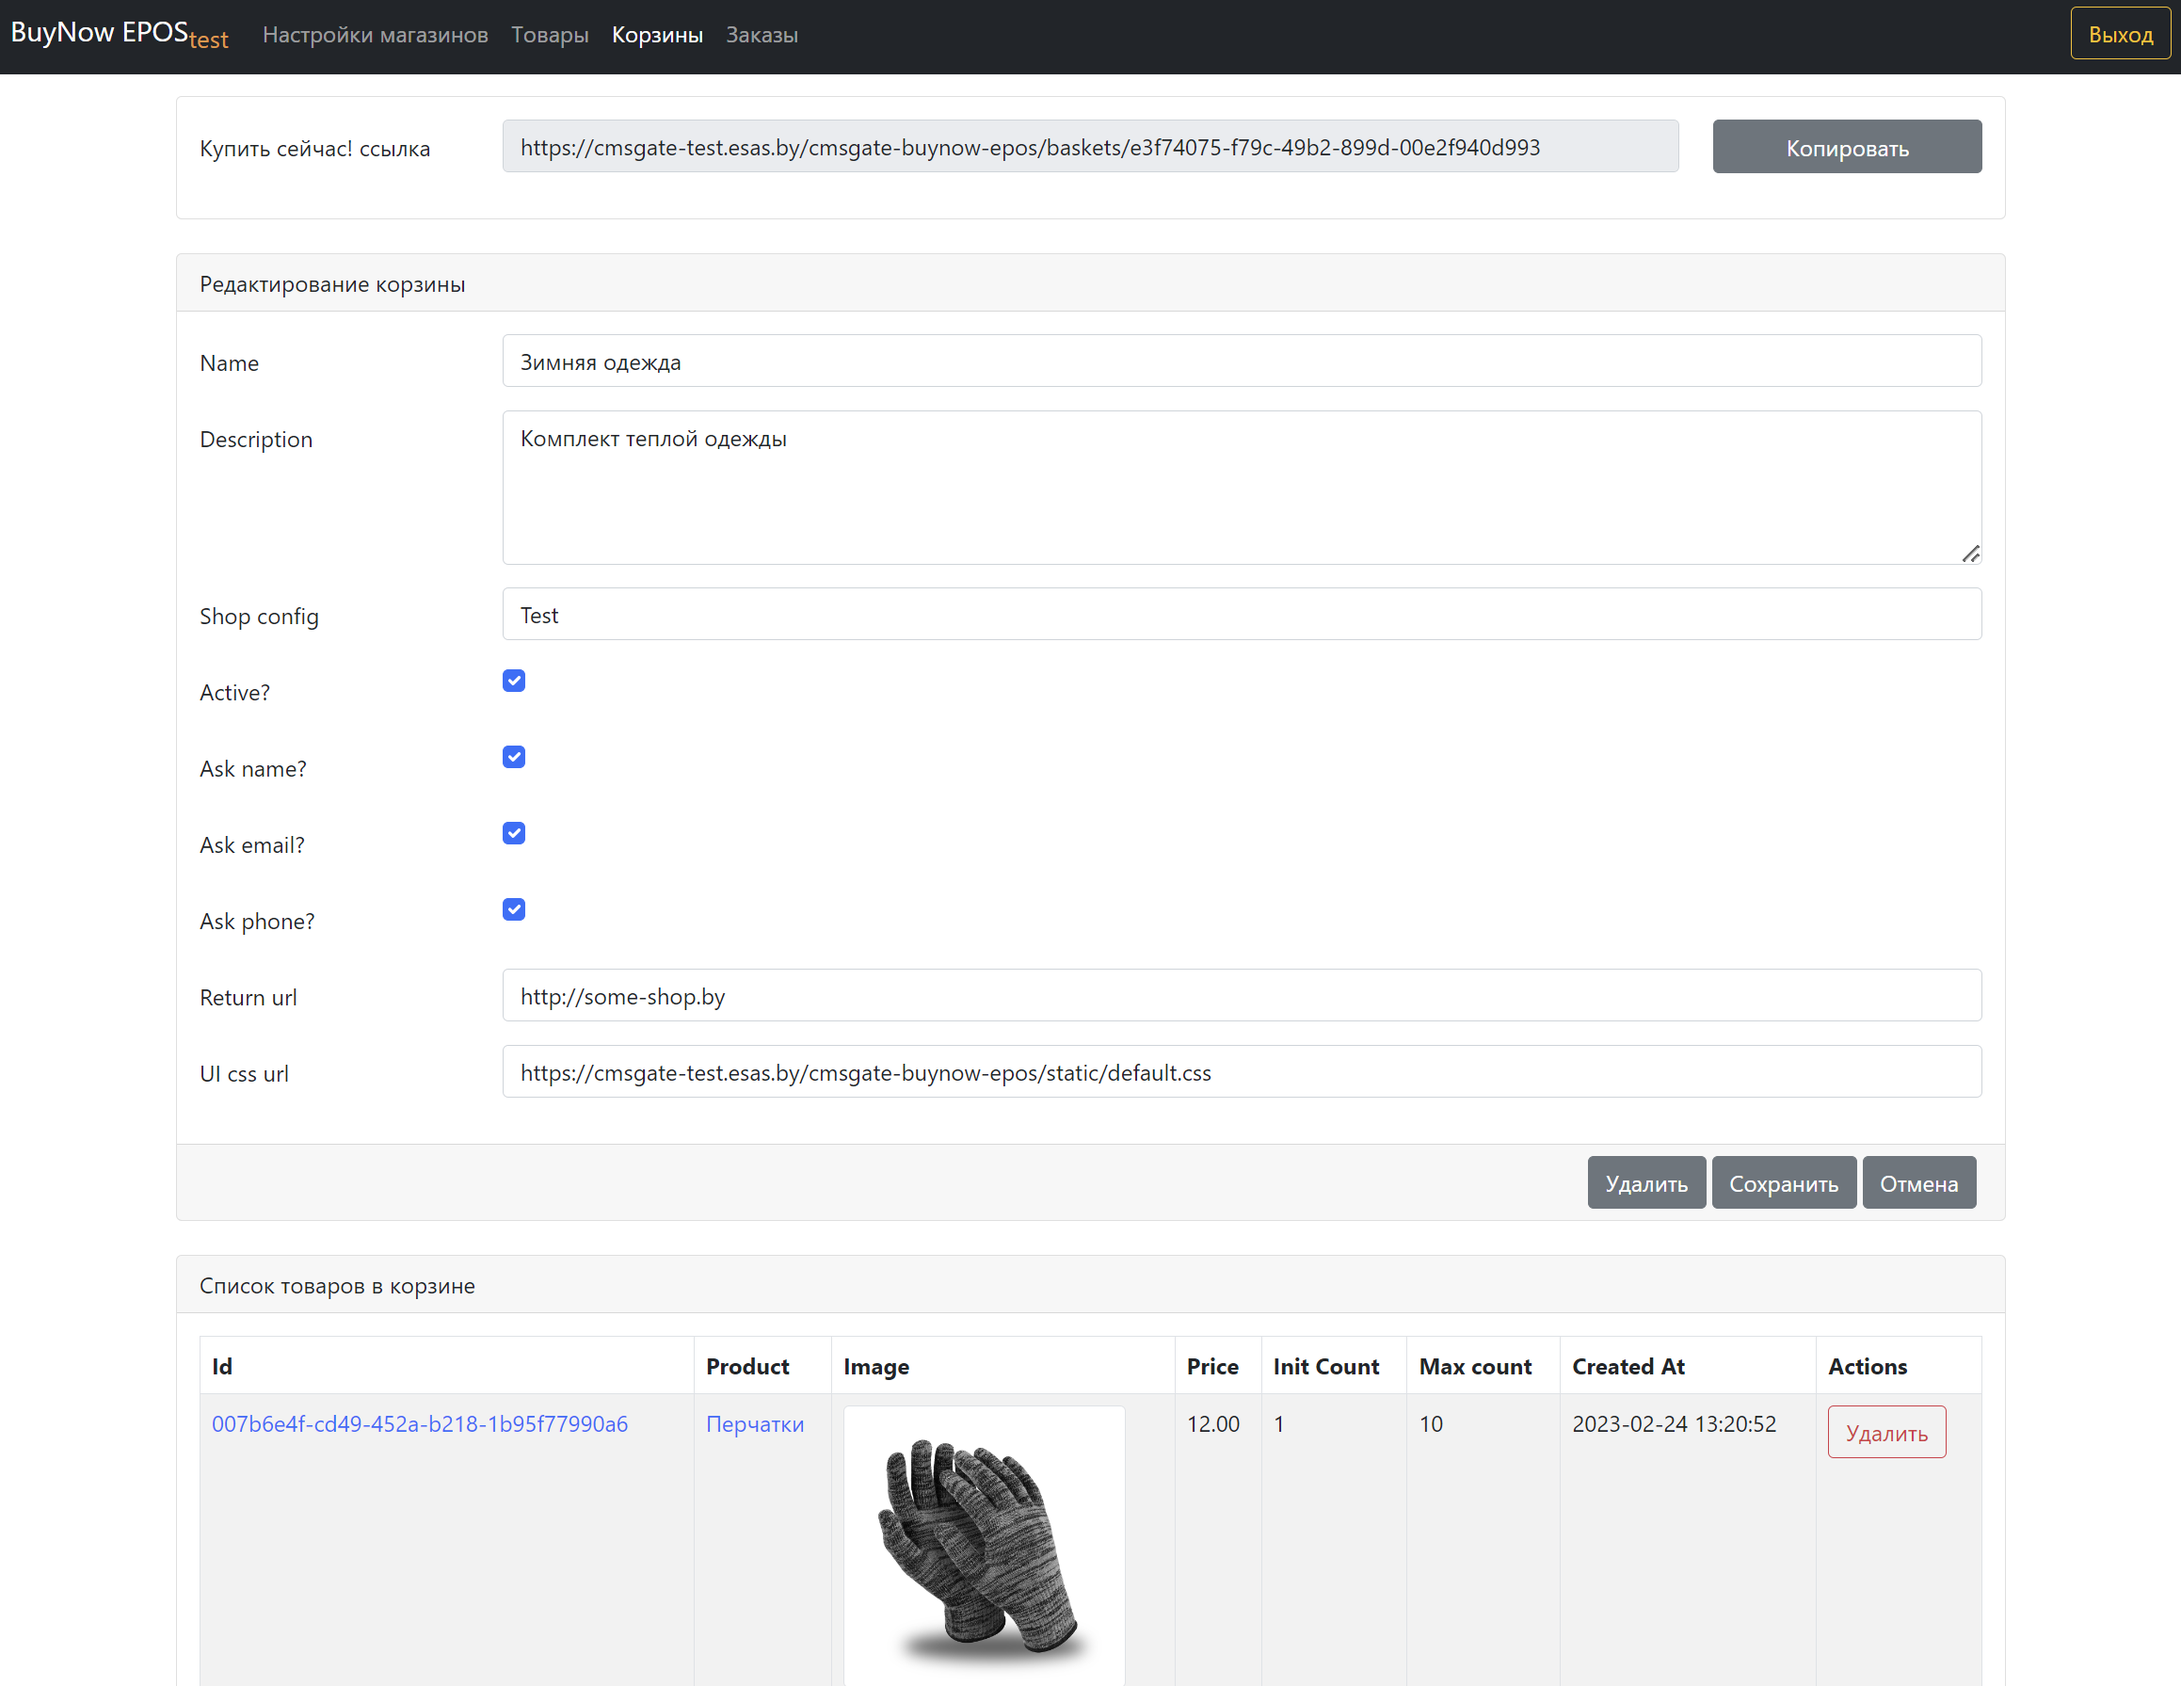
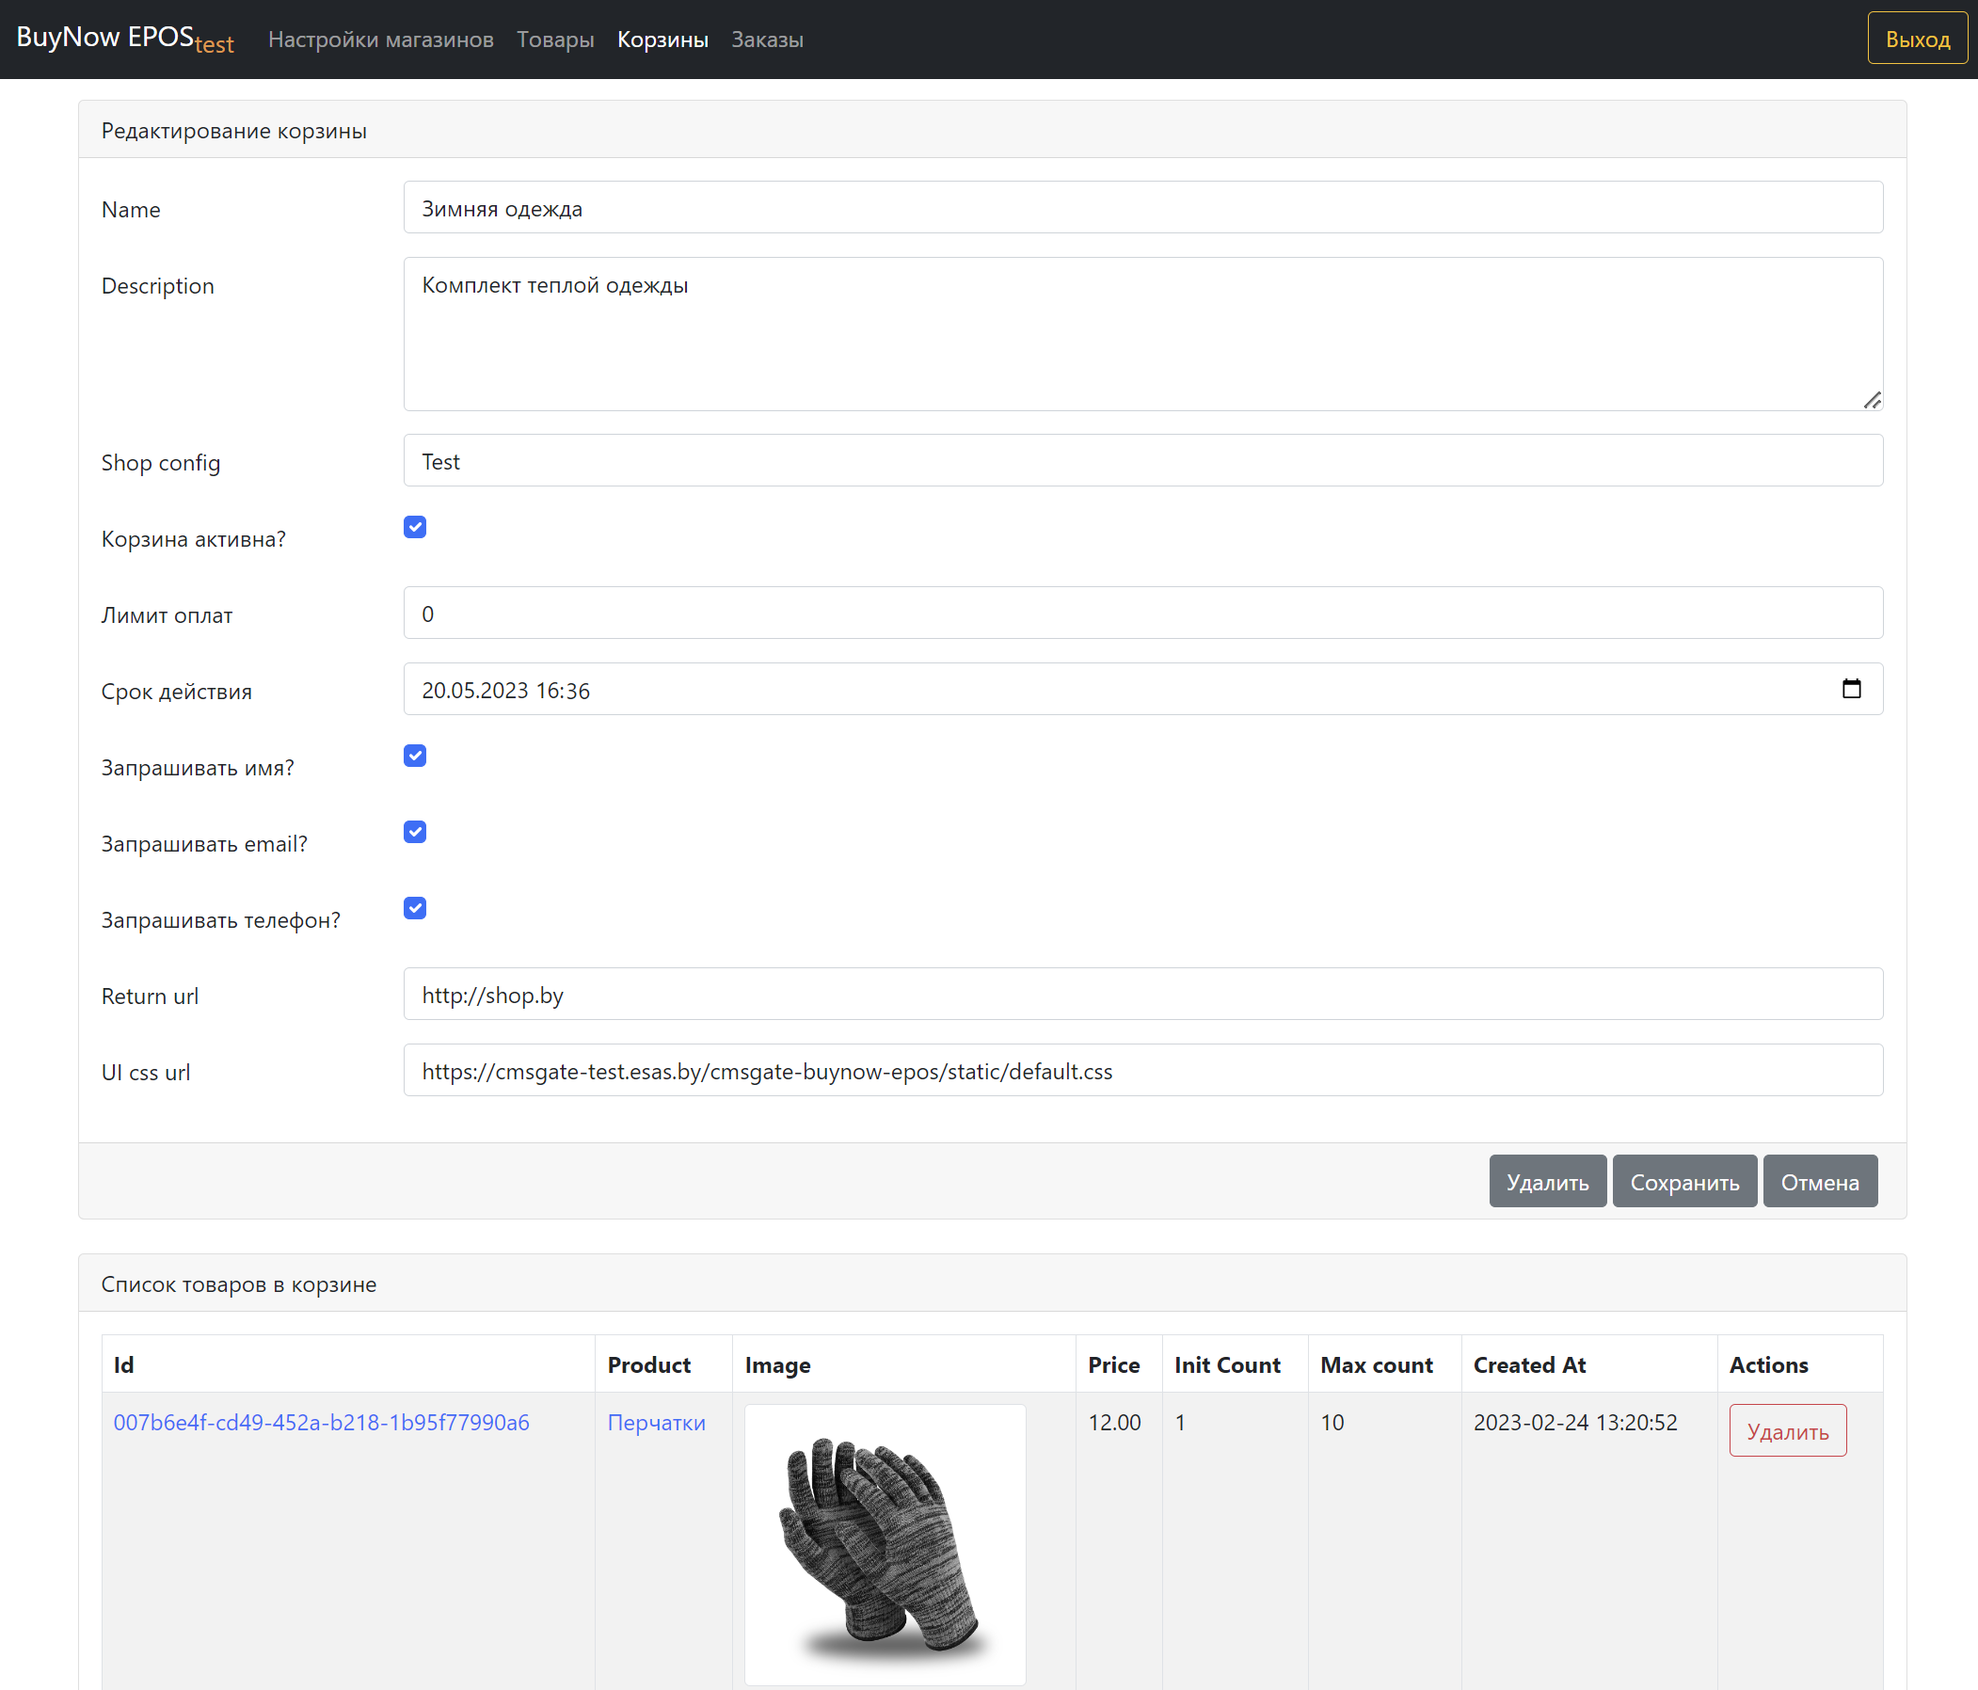
CMSGATE-56: new Service architecture. BridgeConnector was deleted. OrderCache renaming. Basket limiting

diff --git a/src/cmsgate-buynow-epos/src/esas/cmsgate/buynow/RegistryEposBuyNow.php b/src/cmsgate-buynow-epos/src/esas/cmsgate/buynow/RegistryEposBuyNow.php
@@ -8,8 +8,11 @@
 
 namespace esas\cmsgate\buynow;
 
-use esas\cmsgate\bridge\BridgeConnector;
+use esas\cmsgate\bridge\service\OrderService;
 use esas\cmsgate\buynow\hro\AdminLoginPageHROTunerBynowEpos;
+use esas\cmsgate\buynow\service\OrderServiceBuyNowEpos;
+use esas\cmsgate\buynow\service\PDOServiceBuyNowEpos;
+use esas\cmsgate\buynow\service\ServiceProviderBuyNow;
 use esas\cmsgate\buynow\view\admin\ConfigFormBuyNow;use esas\cmsgate\descriptors\ModuleDescriptor;
 use esas\cmsgate\descriptors\VendorDescriptor;
 use esas\cmsgate\descriptors\VersionDescriptor;
@@ -24,6 +27,7 @@ use esas\cmsgate\hro\HROManager;
 use esas\cmsgate\hro\pages\AdminLoginPageHRO;
 use esas\cmsgate\hro\sections\FooterSectionCompanyInfoHRO;
 use esas\cmsgate\hro\sections\HeaderSectionLogoContactsHRO;
+use esas\cmsgate\service\PDOService;
 use esas\cmsgate\utils\URLUtils;
 use esas\cmsgate\view\admin\AdminViewFields;
 
@@ -33,7 +37,6 @@ class RegistryEposBuyNow extends RegistryEpos
     {
         $this->cmsConnector = new CmsConnectorByNow();
         $this->paysystemConnector = new PaysystemConnectorEpos();
-        $this->registerService(BridgeConnector::class, new BridgeConnectorBuyNowEpos());
     }
 
     /**
@@ -47,6 +50,11 @@ class RegistryEposBuyNow extends RegistryEpos
 
     public function init() {
         parent::init();
+
+        $this->registerServicesFromProvider(new ServiceProviderBuyNow());
+        $this->registerService(OrderService::class, new OrderServiceBuyNowEpos());
+        $this->registerService(PDOService::class, new PDOServiceBuyNowEpos());
+
         HROManager::fromRegistry()->addImplementation(CompletionPanelEposHRO::class, CompletionPanelEposHRO_v2::class);
         HROManager::fromRegistry()->addTuner(AdminLoginPageHRO::class, AdminLoginPageHROTunerBynowEpos::class);
         HROManager::fromRegistry()->addTuner(FooterSectionCompanyInfoHRO::class, FooterSectionCompanyInfoHROTunerEpos::class);
@@ -108,5 +116,4 @@ class RegistryEposBuyNow extends RegistryEpos
     public function createProperties() {
         return new PropertiesBuyNowEpos();
     }
-
 }

diff --git a/src/cmsgate-buynow-epos/src/esas/cmsgate/buynow/HooksEposBuyNow.php b/src/cmsgate-buynow-epos/src/esas/cmsgate/buynow/HooksEposBuyNow.php
@@ -1,7 +1,8 @@
 <?php
 namespace esas\cmsgate\buynow;
 
-use esas\cmsgate\bridge\BridgeConnector;
+use esas\cmsgate\bridge\service\OrderService;
+use esas\cmsgate\buynow\dao\BasketBuyNowRepository;
 use esas\cmsgate\buynow\protocol\RequestParamsBuyNow;
 use esas\cmsgate\epos\HooksEpos;
 use esas\cmsgate\epos\protocol\EposCallbackRq;
@@ -12,11 +13,11 @@ class HooksEposBuyNow extends HooksEpos
 {
     public function onCallbackRqRead(EposCallbackRq $rq) {
         parent::onCallbackRqRead($rq);
-        BridgeConnector::fromRegistry()->getOrderCacheService()->loadSessionOrderCacheByExtId($rq->getInvoiceId());
+        OrderService::fromRegistry()->loadSessionOrderByExtId($rq->getInvoiceId());
     }
 
     public function onInvoiceAddSuccess(OrderWrapper $orderWrapper, EposInvoiceAddRs $resp) {
         parent::onInvoiceAddSuccess($orderWrapper, $resp);
-        BridgeConnectorBuyNow::fromRegistry()->getBuyNowBasketRepository()->incrementCheckoutCount(RequestParamsBuyNow::getBasketId());
+        BasketBuyNowRepository::fromRegistry()->incrementCheckoutCount(RequestParamsBuyNow::getBasketId());
     }
 }

diff --git a/src/cmsgate-buynow-epos/src/esas/cmsgate/buynow/service/PDOServiceBuyNowEpos.php b/src/cmsgate-buynow-epos/src/esas/cmsgate/buynow/service/PDOServiceBuyNowEpos.php
@@ -1,14 +1,17 @@
 <?php
-namespace esas\cmsgate\buynow;
+
+
+namespace esas\cmsgate\buynow\service;
+
 
 use esas\cmsgate\buynow\properties\PropertiesBuyNow;
-use esas\cmsgate\buynow\service\MerchantServiceBuyNow;
+use esas\cmsgate\service\PDOService;
 use PDO;
 
-class BridgeConnectorBuyNowEpos extends BridgeConnectorBuyNow
+class PDOServiceBuyNowEpos extends PDOService
 {
-    public function getPDO()
-    {
+
+    public function getPDO($repositoryClass = null) {
         $opt = [
             PDO::ATTR_ERRMODE => PDO::ERRMODE_EXCEPTION,
             PDO::ATTR_DEFAULT_FETCH_MODE => PDO::FETCH_ASSOC,
@@ -19,14 +22,5 @@ class BridgeConnectorBuyNowEpos extends BridgeConnectorBuyNow
             PropertiesBuyNow::fromRegistry()->getPDOUsername(),
             PropertiesBuyNow::fromRegistry()->getPDOPassword(),
             $opt);
-    }
-
-    public function isSandbox()
-    {
-        return PropertiesBuyNow::fromRegistry()->isSandbox();
-    }
-
-    protected function createMerchantService() {
-        return new MerchantServiceBuyNow();
     }
 }

diff --git a/src/cmsgate-buynow-epos/src/esas/cmsgate/buynow/hro/AdminLoginPageHROTunerBynowEpos.php b/src/cmsgate-buynow-epos/src/esas/cmsgate/buynow/hro/AdminLoginPageHROTunerBynowEpos.php
@@ -5,7 +5,7 @@ namespace esas\cmsgate\buynow\hro;
 
 
 use esas\cmsgate\bridge\view\client\RequestParamsBridge;
-use esas\cmsgate\buynow\BridgeConnectorBuyNowEpos;
+use esas\cmsgate\buynow\PropertiesBuyNowEpos;
 use esas\cmsgate\Registry;
 use esas\cmsgate\hro\HRO;
 use esas\cmsgate\hro\HROTuner;
@@ -21,7 +21,7 @@ class AdminLoginPageHROTunerBynowEpos implements HROTuner
         return $hroBuilder
             ->setLoginField(RequestParamsBridge::LOGIN_FORM_LOGIN, "Client ID")
             ->setPasswordField(RequestParamsBridge::LOGIN_FORM_PASSWORD, 'Secret')
-            ->setSandbox(BridgeConnectorBuyNowEpos::fromRegistry()->isSandbox())
+            ->setSandbox(PropertiesBuyNowEpos::fromRegistry()->isSandbox())
             ->setMessage("Login to BuyNow " . Registry::getRegistry()->getPaysystemConnector()->getPaySystemConnectorDescriptor()->getPaySystemMachinaName());
     }
 }

diff --git a/src/cmsgate-buynow-epos/src/esas/cmsgate/buynow/service/OrderServiceBuyNowEpos.php b/src/cmsgate-buynow-epos/src/esas/cmsgate/buynow/service/OrderServiceBuyNowEpos.php
@@ -1,0 +1,18 @@
+<?php
+
+
+namespace esas\cmsgate\buynow\service;
+
+
+use DateTime;
+use esas\cmsgate\epos\wrappers\ConfigWrapperEpos;
+
+class OrderServiceBuyNowEpos extends OrderServiceBuyNow
+{
+    /**
+     * @inheritDoc
+     */
+    public function getOrderExpirationDate() {
+        return $date = (new DateTime('NOW'))->modify('+' . ConfigWrapperEpos::fromRegistry()->getDueInterval() . ' day');
+    }
+}

diff --git a/README.md b/README.md
@@ -71,6 +71,8 @@ BuyNow EPOS позволят самостоятельно сгенерирова
     * Description – подробное описание группы товаров. Будет отображаться клиентам при оформлении заказа
     * Shop config – привязка к созданным ранее настройкам магазина
     * Active – активность корзины
+    * Лимит оплат - как много заказов можно оформить для корзины. 0 - без ограничений. Задаётся для товаров, по которым ограничено доступное количество
+    * Срок действия - заказать товары в корзине можно будет только не позднее указанной даты
     * Ask name? – необходимо ли запрашивать ФИО клиента при оформлении заказа
     * Ask email? – необходимо ли запрашивать email клиента при оформлении заказа
     * Ask phone? – необходимо ли запрашивать номер телефона клиента при оформлении заказа
